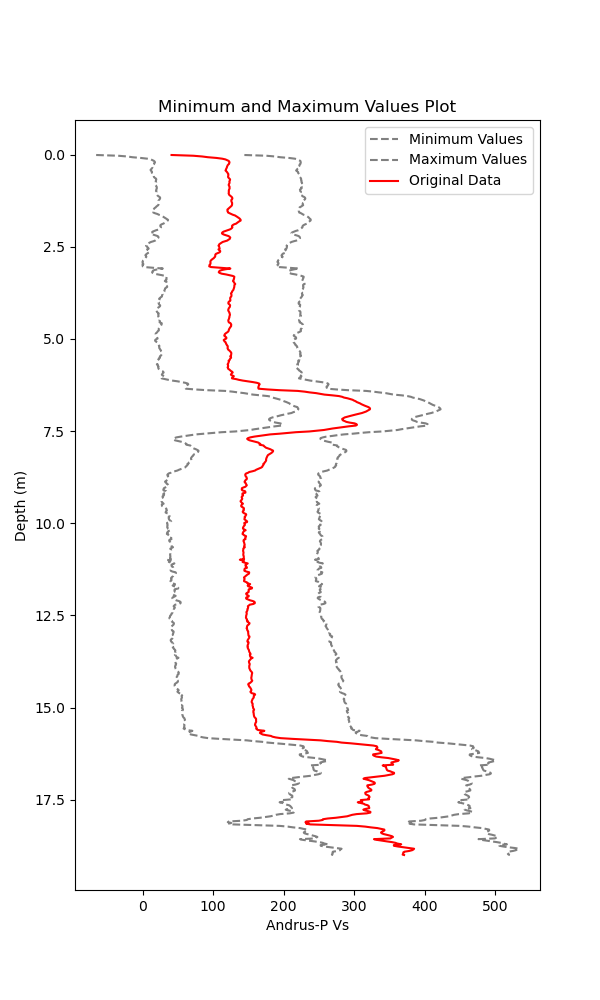
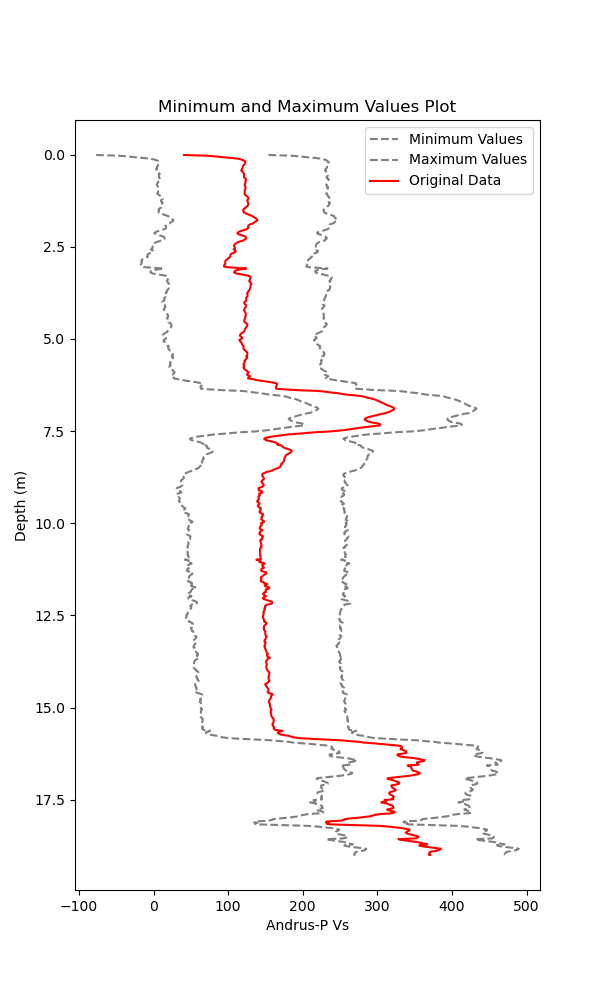
Personal

diff --git a/MCMC/generate1DSpatiallyCorrelatedRandomField.py b/MCMC/generate1DSpatiallyCorrelatedRandomField.py
@@ -1,7 +1,7 @@
 import numpy as np
 import pandas as pd
 import matplotlib.pyplot as plt
-
+from vs_calc import VsProfile, vs30_correlations
 def generate_spatially_correlated_field(depths, num_realizations, correlation_length, mean=0, std_dev=45):
     """
     Generates spatially correlated 1D random fields using Cholesky decomposition.
@@ -33,7 +33,7 @@ def generate_spatially_correlated_field(depths, num_realizations, correlation_le
     return correlated_fields
 
 # Define depth range
-depths = np.linspace(0, 30, 3001)  # Depths from 0 to 30m with 1m increments
+depths = np.linspace(0, 30, 3001)  # Depths from 0 to 30m with 0.01m increments
 print(depths)
 
 # Generate 100 realizations
@@ -59,13 +59,6 @@ for i in range(1, random_fields.shape[0]):
 merged_data = merged_data.drop(columns=merged_data.filter(like='Random_Field_').columns)
 print(merged_data)
 
-# Calculate the standard deviation at each depth for the original data within merged_data
-std_values = merged_data.drop(columns=['Depth']).std(axis=1)
-
-print("Standard deviation at each depth:")
-print(std_values)
-
-
 # Calculate the minimum and maximum values for all columns except 'Depth'
 min_values = merged_data.drop(columns=['Depth']).min(axis=1)
 max_values = merged_data.drop(columns=['Depth']).max(axis=1)
@@ -73,17 +66,13 @@ max_values = merged_data.drop(columns=['Depth']).max(axis=1)
 # Create new arrays for minimum and maximum values
 min_array = np.column_stack((merged_data['Depth'], min_values))
 max_array = np.column_stack((merged_data['Depth'], max_values))
-
-print("Minimum values array:")
-print(min_array)
-print("Maximum values array:")
-print(max_array)
 data_origin = pd.read_csv('SCPT_195188.csv', usecols=['Depth', 'Andrus-P Vs'])
 
-# Plot the minimum and maximum values
 plt.figure(figsize=(6, 10))
 plt.plot(min_array[:, 1], min_array[:, 0], color='grey', linestyle='--', label='Minimum Values')
 plt.plot(max_array[:, 1], max_array[:, 0], color='grey',linestyle='--', label='Maximum Values')
+
+# Plot the minimum and maximum values
 plt.plot(data_origin['Andrus-P Vs'], data_origin['Depth'], color='red', label='Original Data')
 plt.xlabel('Andrus-P Vs')
 plt.ylabel('Depth (m)')
@@ -92,3 +81,7 @@ plt.gca().invert_yaxis()  # Invert y-axis to match depth convention
 plt.legend()
 plt.savefig('min_max_values_plot.png')
 plt.show()
+plt.close()
+
+
+
